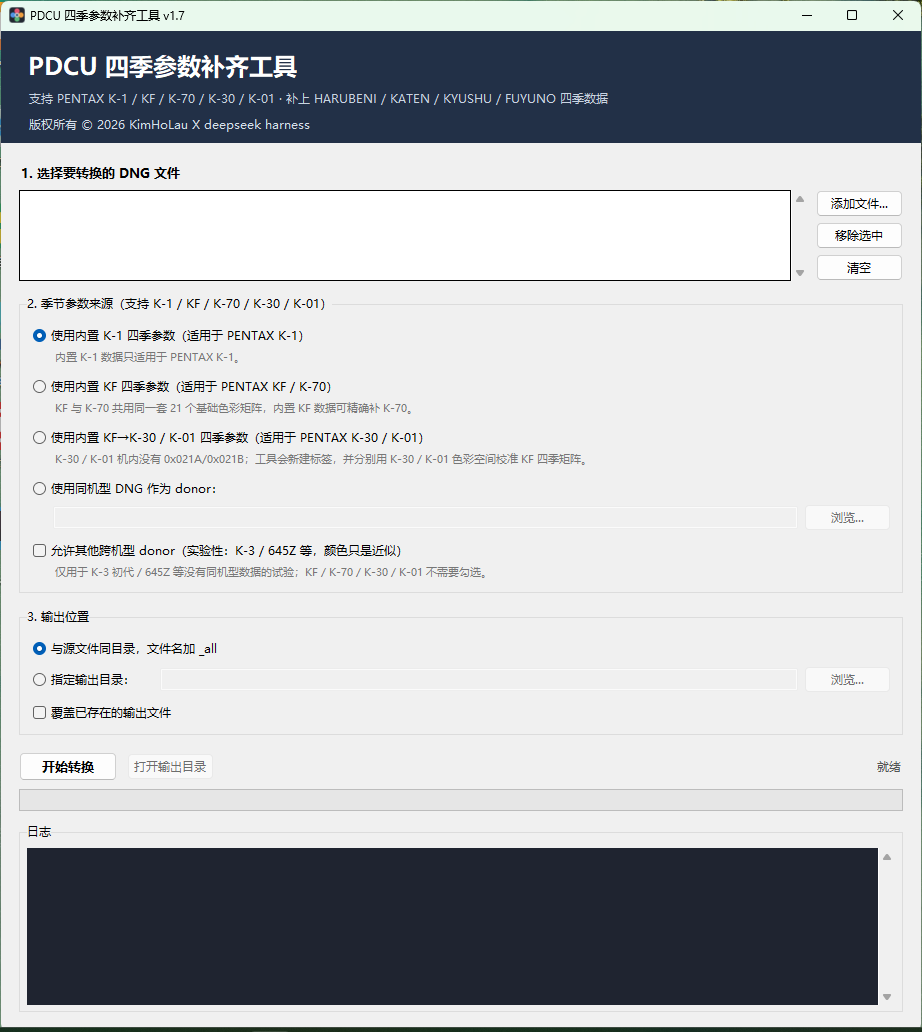
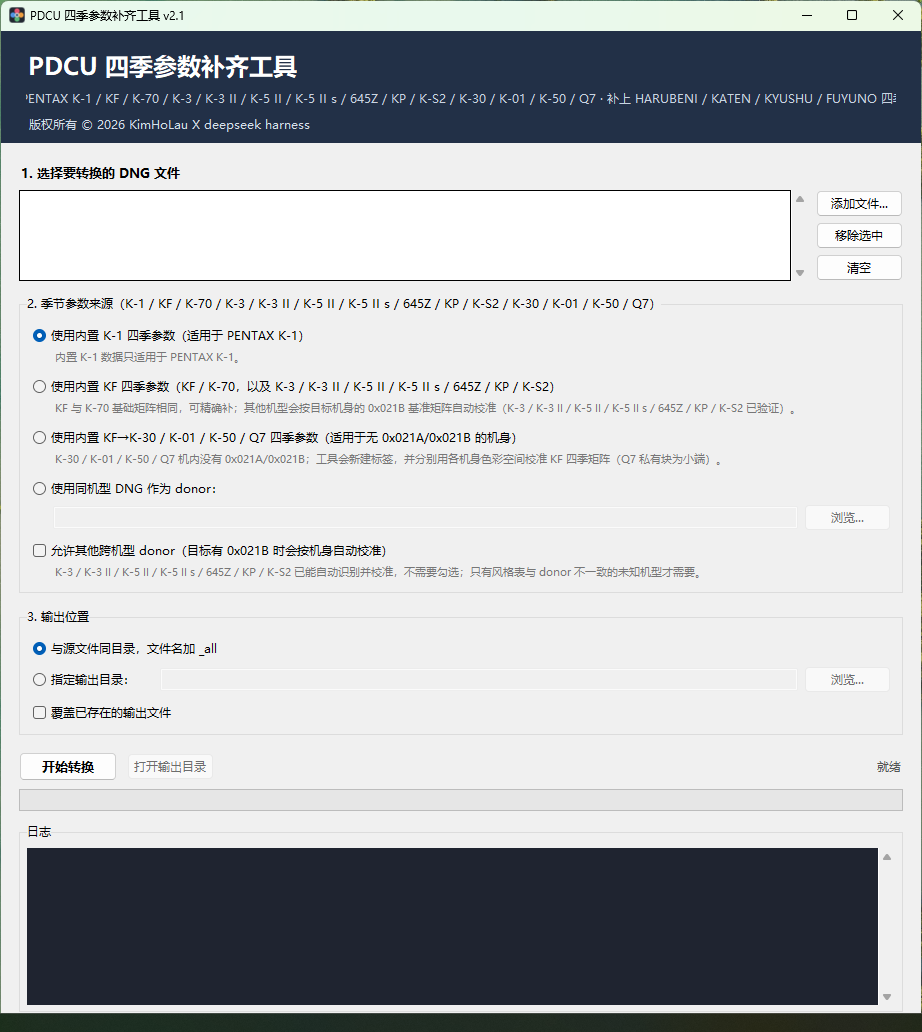
更新说明

diff --git a/readme.md b/readme.md
@@ -1,4 +1,4 @@
-# PDCU 四季参数补齐工具（GUI 版）v2.0
+# PDCU 四季参数补齐工具（GUI 版）v2.1
 
 ![image](https://github.com/KimHoLau/PDCU-Four-Seasons-Filter-edition-/blob/main/PDCU-GUI.png)
 
@@ -16,7 +16,7 @@
 [`docs/PDCU-九机型四季实测.md`](docs/PDCU-九机型四季实测.md)。
 ## 运行
 
-发布文件：`dist/PDCU-Season-Params.exe`
+发布文件：`dist/PDCU-Season-Params.exe`（或 `dist/PDCU-Season-ParamsV2.1.zip`）
 
 双击运行，不需要安装 Python。首次运行 Windows SmartScreen 可能提示
 “未知发布者”，选择“更多信息 -> 仍要运行”。
@@ -29,6 +29,12 @@
   `Y` 校准 KF 四季矩阵（K-50 与 K-3 校准线只差 3.7×10⁻⁵，Q7 为小底推算）。
   九台同场景实测见
   [`docs/PDCU-九机型四季实测.md`](docs/PDCU-九机型四季实测.md)。
+- **v2.1**：K-30 的内置表改用 K-30 自己的 ColorMatrix2 校准（与 K-50 / K-01
+  同一公式），不再用 K-3 基准代理，与旧表相比只有 6 个 Q13 系数差 1 个 LSB；
+  K-01 的内置表也按 `sample/K01.DNG` 的 `0xC622` 原值重算，2 个系数各修正
+  1 个 LSB。新增 `CM2 check`：用目标 DNG 的 ColorMatrix2 复核 `0x021B` 基准，
+  偏差 >1×10⁻³ 时日志告警（645Z / K-S2 会触发；实测 PDCU 的屏幕渲染与
+  另存 JPEG 都不读 CM2，校准仍以 `0x021B` 为准）。
 - **v1.9**：支持 **Digital Camera Utility 5 另存的 DNG**。这类文件的 Pentax
   MakerNote 在 EXIF `0x927C`（不是 `0xC634`）；工具现在按同样的私有 IFD
   结构读取，并在 `0x021B` 后没有空位时把矩阵表迁到 MakerNote 内空闲区。
@@ -45,6 +51,43 @@
 - **v1.5**：内置 KF 四季参数，K-70 自动识别。
 - **v1.4**：内置 KF 数据；KF / K-70 按“基础矩阵相同”精确移植。
 
+### v2.1 打包记录（2026-10-28）
+
+构建：Python 3.14.3 + PyInstaller 6.22.3，`PDCU-Season-Params.spec`（onefile、UPX），
+FileVersion / ProductVersion **2.1.0.0**。
+
+| 产物 | 大小 |
+|---|---:|
+| `dist/PDCU-Season-Params.exe` | 12,594,289 B |
+| `dist/PDCU-Season-ParamsV2.1.zip`（exe + 使用说明） | 12,347,171 B |
+
+打包后 exe 的自检（`--selftest-*`），与 CLI 生成物逐字节比对：
+
+| 机型 | 自检输出 = 参考文件 | CM2 check |
+|---|---|---:|
+| K-30 | `sample/K30_KF_all.DNG` | 无（无 0x021B，不校准） |
+| K-01 | `sample/K01_KF_all.DNG` | 无（同上） |
+| KP | `sample/season_all/KP_all.dng` | pass，dY 1.8×10⁻⁵ |
+| 645Z | `sample/season_all/645Z_all.dng` | **WARNING**，dY 2.7×10⁻³ |
+
+645Z 的告警在打包版 GUI 里同样出现：加文件 → 开始转换，日志为
+
+```
+按目标机身校准：Y = [...]  style: median 7.2e-05, max 9.8e-05 over 27 modes
+CM2 check: WARNING - the target's 0x021B base and its ColorMatrix2 imply
+different Y (dY 2.7e-03); using the 0x021B base
+```
+
+SHA-256（v2.1 发布物与 K-30 / K-01 新内置表的输出）：
+
+```
+exe     64C9240D90F8E81C1239857D9BEE2844EBA0DCD5D9FBF8E01DAF532B50AFA89A
+K30     328E52A671C26AA5E8524003E51F78A2F55475AA9665E4C6EECA5EB648A25AEC
+K01     06B87D743391237AC54EDC847CA8FA97982EDF87BC568F3311E5415B813B3745
+KP      3BF7F56E17F2CDB83847E9C236B32F28F79E3A2CBC3C05330B83810601A91E22
+645Z    768EC1AAE05BD5E84AD374B7122DE711273054C8DE379BF1ECB89B4346988135
+```
+
 ## 支持机型
 
 | 机型 | 推荐用法 | 说明 |
@@ -52,7 +95,7 @@
 | **PENTAX K-1** | 内置 K-1 四季参数 | 原有支持；兼容老固件带填充的 `0x021A` |
 | **PENTAX KF** | 内置 KF 四季参数 / 同机型 donor | KF 文件通常已自带四季；也可作为 K-70 的 donor |
 | **PENTAX K-70** | 内置 KF 四季参数 | KF 与 K-70 共用同一套 21 个基础色彩矩阵，可精确补四季 |
-| **PENTAX K-30** | 内置 KF→K-30 四季参数 | K-30 无 0x021A/0x021B；工具新建标签并做 K-30 校准 |
+| **PENTAX K-30** | 内置 KF→K-30 四季参数 | K-30 无 0x021A/0x021B；工具新建标签并用其 ColorMatrix2 校准 |
 | **PENTAX K-01** | 内置 KF→K-30 / K-01 四季参数 | K-01 同样无表、大端；IFD 95 条，工具按实际布局重建 |
 | **PENTAX K-3** | 内置 KF 四季参数 + 自动校准 | 与 K-3 II / K-5 II / K-5 II s 共用同一张基准矩阵，校准后精确 |
 | **PENTAX K-3 II** | 内置 KF 四季参数 + 自动校准 | 矩阵表与 K-3 只差第 2 号一格，自动校准结果与 K-3 完全相同 |
@@ -83,11 +126,11 @@ K-30 / K-01 / K-50 的私有块是大端，Q7 是小端。工具会：
 2. 按目标实际的条目数重建 IFD（K-30 为 102 条，K-01 为 97 条），
    插入 `0x021A` / `0x021B`；
 3. 把 KF 的 4 条四季记录、4 个矩阵转换成大端；
-4. K-30 用 K-3 基础矩阵作为基准代理；K-01 用真实 K-01 ColorMatrix2
-   单独校准。两者校准结果最大只差 4.1×10⁻⁵。
-5. v2.0 的 K-50 用 K-50 ColorMatrix2 校准，Y 与 K-3 只差 3.7×10⁻⁵，
-   写出的矩阵与 K-30 内置值差 ≤1 个 Q13 LSB；Q7 用 Q7 ColorMatrix2
-   校准（小底，Y 与单反差别较大，属于最佳推算）。
+4. K-30 / K-01 / K-50 都用各自 DNG 的 ColorMatrix2 单独校准，
+   `Y = T(KF)·inverse(T(机身))`；三台的 Y 最大只差 3.2×10⁻⁵。
+5. K-30 的 Y 与 K-3 的 Y 差 2.2×10⁻⁵，量化后的四季矩阵与 K-3 的精确解
+   只差 1 个 Q13 LSB；Q7 用 Q7 ColorMatrix2 校准（小底，Y 与单反差别较大，
+   属于最佳推算）。
 
 详细分析见 [`docs/PDCU-K30-KF四季移植.md`](docs/PDCU-K30-KF四季移植.md)
 和 [`docs/PDCU-K01-KF四季移植.md`](docs/PDCU-K01-KF四季移植.md)。
@@ -136,14 +179,19 @@ K-3 / K-3 II / K-5 II / K-5 II s / 645Z / KP / K-S2 → 内置 KF + 自动校准
   想退回“原样搬 donor 矩阵”，命令行加 `--no-calibrate`。
 - K-5 II / K-5 II s 的私有块是**大端**（K-3 / 645Z 是小端），工具按目标文件的
   字节序自动转换。
-- K-30 没有机内四季，也没有 `0x021B` 可对照；校准使用 K-30 与 K-3 几乎相同的
-  DNG 色彩矩阵，把 K-3 基准矩阵当作 K-30 基准。结构上四季菜单和渲染都可用，
-  但这是本工具的最佳推算，不是官方 K-30 固件数据。
+- K-30 没有机内四季，也没有 `0x021B` 可对照；校准使用它自己的 DNG ColorMatrix2
+  （`sample/K30.DNG`），Y 与 K-3 只差 2.2×10⁻⁵，写出的矩阵与 K-3 精确解
+  只差 1 个 Q13 LSB。结构上四季菜单和渲染都可用，但这是本工具的最佳推算，
+  不是官方 K-30 固件数据。
 - K-01 与 K-30 同代同像素，真实 K-01 的 ColorMatrix2 与 K-30 只有极小差异；
   工具为 K-01 单独内置了校准数据。`sample/K01.DNG` 是真实 K-01 文件，
   v1.7 已在 PDCU 中实测识别为 PENTAX K-01 并列出四季。
 - 645Z / K-3 / K-S2 / KP 没有机内四季数据，但它们的矩阵表与 KF 只差一次输入校准，
   v1.8 / v2.0 按目标机身校准后四季风格与 KF 原生一致（645Z、KP、K-S2 需要自己的 `Y`）。
+- 工具会用目标 DNG 的 `0xC622`（ColorMatrix2）复核 `0x021B` 基准：两条路算出的
+  `Y` 相差超过 1×10⁻³ 时日志会打印 `CM2 check: WARNING`（645Z / K-S2 是已知情况，
+  校准仍以 `0x021B` 为准，因为 PDCU 实际乘的是它——屏幕渲染和另存 JPEG 都验证过；
+  实测见 [`docs/PDCU-AsShot基准矩阵验证.md`](docs/PDCU-AsShot基准矩阵验证.md)）。
 - K-50 没有机内四季，也没有 `0x021B` 可对照；v2.0 用它的 DNG ColorMatrix2
   校准，Y 与 K-3 的 Y 只差 3.7×10⁻⁵，四季矩阵与 K-30 内置值差 ≤1 LSB。
 - Q7 没有机内四季，1/1.7" 小底与单反色彩空间差得远，v2.0 用 Q7 自己的
